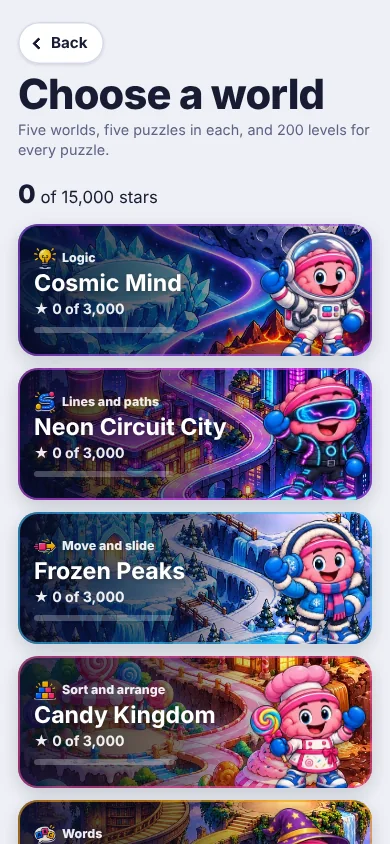
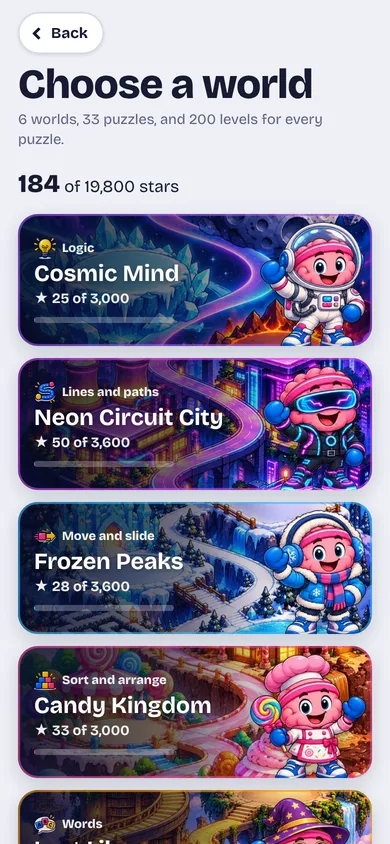
Add files via upload

diff --git a/index.html b/index.html
@@ -3,10 +3,11 @@
 <head>
 <meta charset="utf-8">
 <meta name="viewport" content="width=device-width, initial-scale=1">
-<title>Puzzleweight Champ: 25 puzzles, one champion</title>
-<meta name="description" content="A free puzzle game for iPhone and iPad: 25 kinds of puzzles across five worlds, a daily puzzle, and matches against friends on one phone or online.">
-<meta property="og:title" content="Puzzleweight Champ: 25 puzzles, one champion">
-<meta property="og:description" content="A free puzzle game for iPhone and iPad: 25 kinds of puzzles across five worlds, a daily puzzle, and matches against friends on one phone or online.">
+<meta name="apple-itunes-app" content="app-id=6825614584">
+<title>Puzzleweight Champ: 33 puzzles, one champion</title>
+<meta name="description" content="A free puzzle game for iPhone and iPad: 33 kinds of puzzles across six worlds, a daily puzzle, and matches against friends on one phone or online.">
+<meta property="og:title" content="Puzzleweight Champ: 33 puzzles, one champion">
+<meta property="og:description" content="A free puzzle game for iPhone and iPad: 33 kinds of puzzles across six worlds, a daily puzzle, and matches against friends on one phone or online.">
 <meta property="og:image" content="icon.png">
 <link rel="icon" type="image/png" href="favicon.png">
 <link rel="apple-touch-icon" href="apple-touch-icon.png">
@@ -18,17 +19,17 @@
 <body>
 <header class="site-head"><div class="wrap">
   <a class="brand" href="index.html"><img src="icon.png" alt="">Puzzleweight Champ</a>
-  <nav class="nav" aria-label="Main"><a href="index.html" aria-current="page">Home</a><a href="privacy.html">Privacy policy</a><a href="terms.html">Terms of use</a><a href="support.html">Support</a><a href="index.html#get">App Store</a></nav>
+  <nav class="nav" aria-label="Main"><a href="index.html" aria-current="page">Home</a><a href="privacy.html">Privacy policy</a><a href="terms.html">Terms of use</a><a href="support.html">Support</a><a href="https://apps.apple.com/us/app/puzzleweight-champ/id6825614584">App Store</a></nav>
 </div></header>
 
 <main>
 <section class="hero"><div class="wrap">
   <div>
     <img class="logo" src="logo.webp" width="720" height="471" alt="Puzzleweight Champ">
-    <h1>25 puzzles. One champion.</h1>
-    <p class="lead">A free puzzle game for iPhone and iPad. Sort, slide, link and spell your way through five worlds, then take on your friends, on one phone or online.</p>
-    <span class="btn soon">Coming soon to the App Store</span>
-    <p class="note">Puzzleweight Champ is on its way. Check back soon.</p>
+    <h1>33 puzzles. One champion.</h1>
+    <p class="lead">A free puzzle game for iPhone and iPad. Sort, slide, link, spell and build your way through six worlds, then take on your friends, on one phone or online.</p>
+    <a class="btn" href="https://apps.apple.com/us/app/puzzleweight-champ/id6825614584">Download on the App Store</a>
+    <p class="note">New: Tinker Town, a whole world of build-and-balance puzzles.</p>
   </div>
   <img class="mascot" src="ready.webp" width="445" height="360" alt="Champ, the boxing brain mascot, ready to play">
 </div></section>
@@ -39,8 +40,9 @@
   <p class="sub">Every board has a par. Beat it for stars and coins, then spend coins on new looks.</p>
   <div class="shots">
     <figure><img src="shot-home.webp" width="390" height="844" alt="Main menu with the daily puzzle, events and game modes" loading="lazy"><figcaption>Your corner of the ring</figcaption></figure>
-    <figure><img src="shot-worlds.webp" width="390" height="844" alt="Five puzzle worlds: Cosmic Mind, Neon Circuit City, Frozen Peaks, Candy Kingdom and Lost Library" loading="lazy"><figcaption>Five worlds to explore</figcaption></figure>
-    <figure><img src="shot-puzzle.webp" width="390" height="844" alt="A Color Sort puzzle with tubes of colored balls" loading="lazy"><figcaption>25 kinds of puzzles</figcaption></figure>
+    <figure><img src="shot-worlds.webp" width="390" height="844" alt="Six puzzle worlds: Cosmic Mind, Neon Circuit City, Frozen Peaks, Candy Kingdom, Lost Library and Tinker Town" loading="lazy"><figcaption>Six worlds to explore</figcaption></figure>
+    <figure><img src="shot-tinker.webp" width="390" height="844" alt="The Tinker Town map with six workshop puzzles" loading="lazy"><figcaption>New: Tinker Town</figcaption></figure>
+    <figure><img src="shot-puzzle.webp" width="390" height="844" alt="A Color Sort puzzle with tubes of colored balls" loading="lazy"><figcaption>33 kinds of puzzles</figcaption></figure>
     <figure><img src="shot-finale.webp" width="390" height="844" alt="Final results of a match with a winner banner and podium" loading="lazy"><figcaption>Crown a champion</figcaption></figure>
     <figure><img src="shot-online.webp" width="390" height="844" alt="An online match with standings and the next puzzle" loading="lazy"><figcaption>Play friends online</figcaption></figure>
     <figure><img src="shot-store.webp" width="390" height="844" alt="The store with avatars, colors and emotes" loading="lazy"><figcaption>Make it yours</figcaption></figure>
@@ -48,15 +50,16 @@
 </div></section>
 
 <section class="band"><div class="wrap">
-  <p class="kicker">Five worlds</p>
+  <p class="kicker">Six worlds</p>
   <h2>A puzzle for every kind of brain</h2>
-  <p class="sub">Five puzzles in each world, each with 200 levels from Easy to Expert. That's 5,000 levels, and every one has been checked to make sure it can be solved.</p>
+  <p class="sub">Five or six puzzles in each world, each with 200 levels from Easy to Expert. That's 6,600 levels, and every one has been checked to make sure it can be solved.</p>
   <div class="worlds">
     <div class="world w1"><b>Cosmic Mind</b><small>Logic: Mini Nonogram, Star Battle, Mini Mines, Island Links, Code Break</small></div>
-    <div class="world w2"><b>Neon Circuit City</b><small>Lines and paths: Color Link, One Stroke, Pipe Spin, Laser Mirrors, Number Trail</small></div>
-    <div class="world w3"><b>Frozen Peaks</b><small>Move and slide: Ice Slide, Tilt Maze, Crate Push, Knight’s Run, Sliding Tiles</small></div>
+    <div class="world w2"><b>Neon Circuit City</b><small>Lines and paths: Color Link, One Stroke, Pipe Spin, Laser Mirrors, Number Trail, Knot Not</small></div>
+    <div class="world w3"><b>Frozen Peaks</b><small>Move and slide: Ice Slide, Tilt Maze, Crate Push, Knight’s Run, Sliding Tiles, Maze Rush</small></div>
     <div class="world w4"><b>Candy Kingdom</b><small>Sort and arrange: Color Sort, Block Fit, Loop Shift, Flood Fill, Light Flip</small></div>
     <div class="world w5"><b>Lost Library</b><small>Words: Word Grid, Word Ladder, Word Lock, Anagrams, Word Search</small></div>
+    <div class="world w6"><b>Tinker Town <i class="newtag">New</i></b><small>Build and balance: Gear Up, Hang Time, Fold It, Fair Share, Pop Chain, Sneak Peek</small></div>
   </div>
 </div></section>
 
@@ -64,10 +67,10 @@
   <p class="kicker">Ways to play</p>
   <h2>Solo, side by side, or online</h2>
   <div class="grid">
-    <div class="card"><img class="ic" src="md_single.webp" alt=""><h3>Single player</h3><p>Climb through every world at your own pace and earn up to three stars on each level.</p></div>
+    <div class="card"><img class="ic" src="md_single.webp" alt=""><h3>Single player</h3><p>Climb through every world at your own pace and earn up to three stars on each level. Got three stars? Play a remix: a brand-new board every time.</p></div>
     <div class="card"><img class="ic" src="rk_gold.webp" alt=""><h3>Daily puzzle</h3><p>One new board for everyone every day, changing at midnight Eastern time. One try, and a Game Center leaderboard.</p></div>
     <div class="card"><img class="ic" src="md_multi.webp" alt=""><h3>Pass and play</h3><p>2 to 6 players on one phone. Everyone plays the same board, and scores stay hidden until the last player finishes.</p></div>
-    <div class="card"><img class="ic" src="md_online.webp" alt=""><h3>Online</h3><p>Play friends or someone random through Game Center, best of 3, 5 or 7. Take your turn whenever you like, within 3 days.</p></div>
+    <div class="card"><img class="ic" src="md_online.webp" alt=""><h3>Online</h3><p>Play friends or someone random through Game Center, best of 3, 5 or 7. Easy to Expert. Take your turn whenever you like, within 5 days.</p></div>
     <div class="card"><img class="ic" src="trophy.webp" alt=""><h3>Ranks</h3><p>Win online matches to climb from Bronze to Champion, and see where you stand on the rank leaderboard.</p></div>
     <div class="card"><img class="ic" src="cheer.webp" alt=""><h3>Seasonal events</h3><p>Spooky Season, Harvest, Winter Festival and more, each with its own levels and limited-time looks.</p></div>
   </div>
@@ -92,7 +95,7 @@
   <img src="trophy.webp" width="241" height="300" alt="Champ holding a trophy" loading="lazy">
   <h2>Ready to step into the ring?</h2>
   <p class="sub" style="margin:0 auto 20px">Puzzleweight Champ is free for iPhone and iPad.</p>
-  <span class="btn soon">Coming soon to the App Store</span>
+  <a class="btn" href="https://apps.apple.com/us/app/puzzleweight-champ/id6825614584">Download on the App Store</a>
   <p class="note">Questions? See <a href="support.html">Support</a> or email <a href="mailto:kevinpetersen2110@gmail.com">kevinpetersen2110@gmail.com</a>.</p>
 </div></section>
 </main>

diff --git a/support.html b/support.html
@@ -3,6 +3,7 @@
 <head>
 <meta charset="utf-8">
 <meta name="viewport" content="width=device-width, initial-scale=1">
+<meta name="apple-itunes-app" content="app-id=6825614584">
 <title>Support · Puzzleweight Champ</title>
 <meta name="description" content="Help with Puzzleweight Champ.">
 <meta property="og:title" content="Support · Puzzleweight Champ">
@@ -18,7 +19,7 @@
 <body>
 <header class="site-head"><div class="wrap">
   <a class="brand" href="index.html"><img src="icon.png" alt="">Puzzleweight Champ</a>
-  <nav class="nav" aria-label="Main"><a href="index.html">Home</a><a href="privacy.html">Privacy policy</a><a href="terms.html">Terms of use</a><a href="support.html" aria-current="page">Support</a><a href="index.html#get">App Store</a></nav>
+  <nav class="nav" aria-label="Main"><a href="index.html">Home</a><a href="privacy.html">Privacy policy</a><a href="terms.html">Terms of use</a><a href="support.html" aria-current="page">Support</a><a href="https://apps.apple.com/us/app/puzzleweight-champ/id6825614584">App Store</a></nav>
 </div></header>
 
 <main class="doc"><div class="wrap narrow">
@@ -27,7 +28,9 @@
 <div class="box"><b>Contact:</b> <a href="mailto:kevinpetersen2110@gmail.com?subject=Puzzleweight%20Champ%20support">kevinpetersen2110@gmail.com</a><br>Please include your device (for example iPhone 16), the iOS version, and what happened. I usually reply within two days.</div>
 <h2>Common questions</h2>
 <div class="faq">
-<details><summary>How do I play a puzzle I haven't seen before?</summary><p>Every puzzle shows its rules before you start. The first time you open a puzzle you can try a guided round, and the hint button shows the next correct step if you get stuck. Every board can be solved: all 5,000 levels have been checked by computer.</p></details><details><summary>How do stars work?</summary><p>Every board has a par: the number of moves (or mistakes, guesses or letters) a great solve takes. Match par for three stars. The results screen shows exactly what each star needed.</p></details><details><summary>When does the daily puzzle change?</summary><p>At midnight Eastern time (New York), for everyone everywhere. You get one try per day, and your result is posted to the Game Center leaderboard.</p></details><details><summary>How do I play online?</summary><p>Sign in to Game Center in your device's Settings, then open Online in the app. Choose Play someone random or Invite a friend. Each player has 3 days to take a turn; you'll get a notification when it's yours, and a reminder before time runs out.</p></details><details><summary>What happens if someone stops playing an online match?</summary><p>After 3 days without taking their turn, they forfeit. In a 2-player match the other player wins; with more players, the rest keep playing.</p></details><details><summary>How do ranks work?</summary><p>Online wins earn rank points: +30 for a win (plus 5 for each extra player), +15 for a shared win, 0 for not finishing last, −15 for last place and −20 for quitting. Every 100 points moves you up a division and every 300 a rank, from Bronze to Champion.</p></details><details><summary>I bought Remove Ads. How do I get it on another device?</summary><p>Open Settings in the app and tap Restore purchases while signed in with the same Apple account.</p></details><details><summary>I bought coins but they didn't arrive.</summary><p>Close the app completely and open it again; any purchase that didn't finish is delivered then. If they still haven't arrived, email me with the date of the purchase.</p></details><details><summary>How do I get a refund?</summary><p>Purchases are handled by Apple. Request a refund at reportaproblem.apple.com.</p></details><details><summary>My progress isn't on my new iPad.</summary><p>Make sure both devices use the same Apple account with iCloud turned on, then open the app on the new device and wait a moment. It restarts with your progress once iCloud has synced.</p></details><details><summary>Can I change my ad privacy choices?</summary><p>Yes. Turn tracking on or off in your device's Settings > Privacy & Security > Tracking. In the EU, UK and Switzerland you can also tap Settings > Privacy choices for ads in the app.</p></details><details><summary>Can I turn off turn reminders?</summary><p>Yes, in your device's Settings > Notifications > Puzzleweight Champ.</p></details>
+<details><summary>How do I play a puzzle I haven't seen before?</summary><p>Every puzzle shows its rules before you start. The first time you open a puzzle you can try a guided round, and the hint button shows the next correct step if you get stuck. Every board can be solved: all 6,600 levels have been checked by computer.</p></details><details><summary>How do stars work?</summary><p>Every board has a par: the number of moves (or mistakes, guesses or letters) a great solve takes. Match par for three stars. The results screen shows exactly what each star needed.</p></details>
+<details><summary>What's a remix?</summary><p>Once you have three stars on a level, its screen shows Play a remix. A remix is a brand-new board with the same size and difficulty as that level, and remixes keep rotating through boards you haven't played. They earn coins every time, more on Hard and Expert, and never change the stars you already have.</p></details>
+<details><summary>How do I earn coins?</summary><p>By playing: new stars on levels, remixes, the daily puzzle (with a streak bonus every 7th and 30th day in a row), matches, and bonuses for finishing a difficulty, a whole puzzle or a whole world. Hard and Expert pay more than Easy and Medium. In the app, How to play &gt; Earning coins lists every reward.</p></details><details><summary>When does the daily puzzle change?</summary><p>At midnight Eastern time (New York), for everyone everywhere. You get one try per day, and your result is posted to the Game Center leaderboard.</p></details><details><summary>How do I play online?</summary><p>Sign in to Game Center in your device's Settings, then open Online in the app. Choose Play someone random or Invite a friend. Each player has 5 days to take a turn; you'll get a notification when it's yours, and a reminder before time runs out.</p></details><details><summary>What happens if someone stops playing an online match?</summary><p>After 5 days without taking their turn, they forfeit. In a 2-player match the other player wins; with more players, the rest keep playing.</p></details><details><summary>How do ranks work?</summary><p>Online wins earn rank points: +30 for a win (plus 5 for each extra player), +15 for a shared win, 0 for not finishing last, −15 for last place and −20 for quitting. Every 100 points moves you up a division and every 300 a rank, from Bronze to Champion.</p></details><details><summary>I bought Remove Ads. How do I get it on another device?</summary><p>Open Settings in the app and tap Restore purchases while signed in with the same Apple account.</p></details><details><summary>I bought coins but they didn't arrive.</summary><p>Close the app completely and open it again; any purchase that didn't finish is delivered then. If they still haven't arrived, email me with the date of the purchase.</p></details><details><summary>How do I get a refund?</summary><p>Purchases are handled by Apple. Request a refund at reportaproblem.apple.com.</p></details><details><summary>My progress isn't on my new iPad.</summary><p>Make sure both devices use the same Apple account with iCloud turned on, then open the app on the new device and wait a moment. It restarts with your progress once iCloud has synced.</p></details><details><summary>Can I change my ad privacy choices?</summary><p>Yes. Turn tracking on or off in your device's Settings > Privacy & Security > Tracking. In the EU, UK, Switzerland and US states with privacy laws, you can also tap Settings > Privacy choices for ads in the app, including to opt out of the sale or sharing of your information for ads.</p></details><details><summary>Can I turn off turn reminders?</summary><p>Yes, in your device's Settings > Notifications > Puzzleweight Champ.</p></details>
 </div>
 <h2>Report a bug</h2>
 <p>Email <a href="mailto:kevinpetersen2110@gmail.com?subject=Puzzleweight%20Champ%20bug">kevinpetersen2110@gmail.com</a> with what you were doing, what you expected and what happened instead. A screenshot helps a lot.</p>

diff --git a/terms.html b/terms.html
@@ -3,6 +3,7 @@
 <head>
 <meta charset="utf-8">
 <meta name="viewport" content="width=device-width, initial-scale=1">
+<meta name="apple-itunes-app" content="app-id=6825614584">
 <title>Terms of use · Puzzleweight Champ</title>
 <meta name="description" content="The terms for using Puzzleweight Champ.">
 <meta property="og:title" content="Terms of use · Puzzleweight Champ">
@@ -18,7 +19,7 @@
 <body>
 <header class="site-head"><div class="wrap">
   <a class="brand" href="index.html"><img src="icon.png" alt="">Puzzleweight Champ</a>
-  <nav class="nav" aria-label="Main"><a href="index.html">Home</a><a href="privacy.html">Privacy policy</a><a href="terms.html" aria-current="page">Terms of use</a><a href="support.html">Support</a><a href="index.html#get">App Store</a></nav>
+  <nav class="nav" aria-label="Main"><a href="index.html">Home</a><a href="privacy.html">Privacy policy</a><a href="terms.html" aria-current="page">Terms of use</a><a href="support.html">Support</a><a href="https://apps.apple.com/us/app/puzzleweight-champ/id6825614584">App Store</a></nav>
 </div></header>
 
 <main class="doc"><div class="wrap narrow">
@@ -40,7 +41,7 @@
 <h2>Online play</h2>
 <ul>
   <li>Online play uses Apple's Game Center and its terms.</li>
-  <li>Each player has 3 days to take a turn. If time runs out, that player forfeits the match. Leaving a turn before you finish counts as giving up that round.</li>
+  <li>Each player has 5 days to take a turn. If time runs out, that player forfeits the match. Leaving a turn before you finish counts as giving up that round.</li>
   <li>Play fairly. Ranks and leaderboards are for fun, and I may remove results that come from cheating, bugs or tampering.</li>
   <li>Chat in online matches is limited to preset emojis and lines.</li>
 </ul>

diff --git a/style.css b/style.css
@@ -53,7 +53,7 @@ h3{font-size:1.2rem;margin:0 0 6px}
 .card img.ic{width:64px;height:64px;object-fit:contain;margin-bottom:8px}
 .card p{margin:0;color:var(--muted)}
 
-.worlds{display:grid;grid-template-columns:repeat(5,1fr);gap:12px}
+.worlds{display:grid;grid-template-columns:repeat(3,1fr);gap:12px}
 .world{border-radius:18px;padding:16px;color:#fff;min-height:170px}
 .world b{display:block;font-size:1.05rem;margin-bottom:6px}
 .world small{display:block;opacity:.92;line-height:1.45}
@@ -62,6 +62,8 @@ h3{font-size:1.2rem;margin:0 0 6px}
 .w3{background:linear-gradient(160deg,#1D4ED8,#60A5FA)}
 .w4{background:linear-gradient(160deg,#BE185D,#F472B6)}
 .w5{background:linear-gradient(160deg,#92400E,#D97706)}
+.w6{background:linear-gradient(160deg,#3F4B5E,#C2410C 75%,#EA8A1E)}
+.newtag{font-style:normal;font-size:.7rem;font-weight:800;text-transform:uppercase;letter-spacing:.05em;background:#fff;color:#C2410C;border-radius:6px;padding:2px 6px;margin-left:6px;vertical-align:2px}
 
 .split{display:grid;grid-template-columns:1fr 1fr;gap:28px;align-items:center}
 .ticks{list-style:none;padding:0;margin:0}
